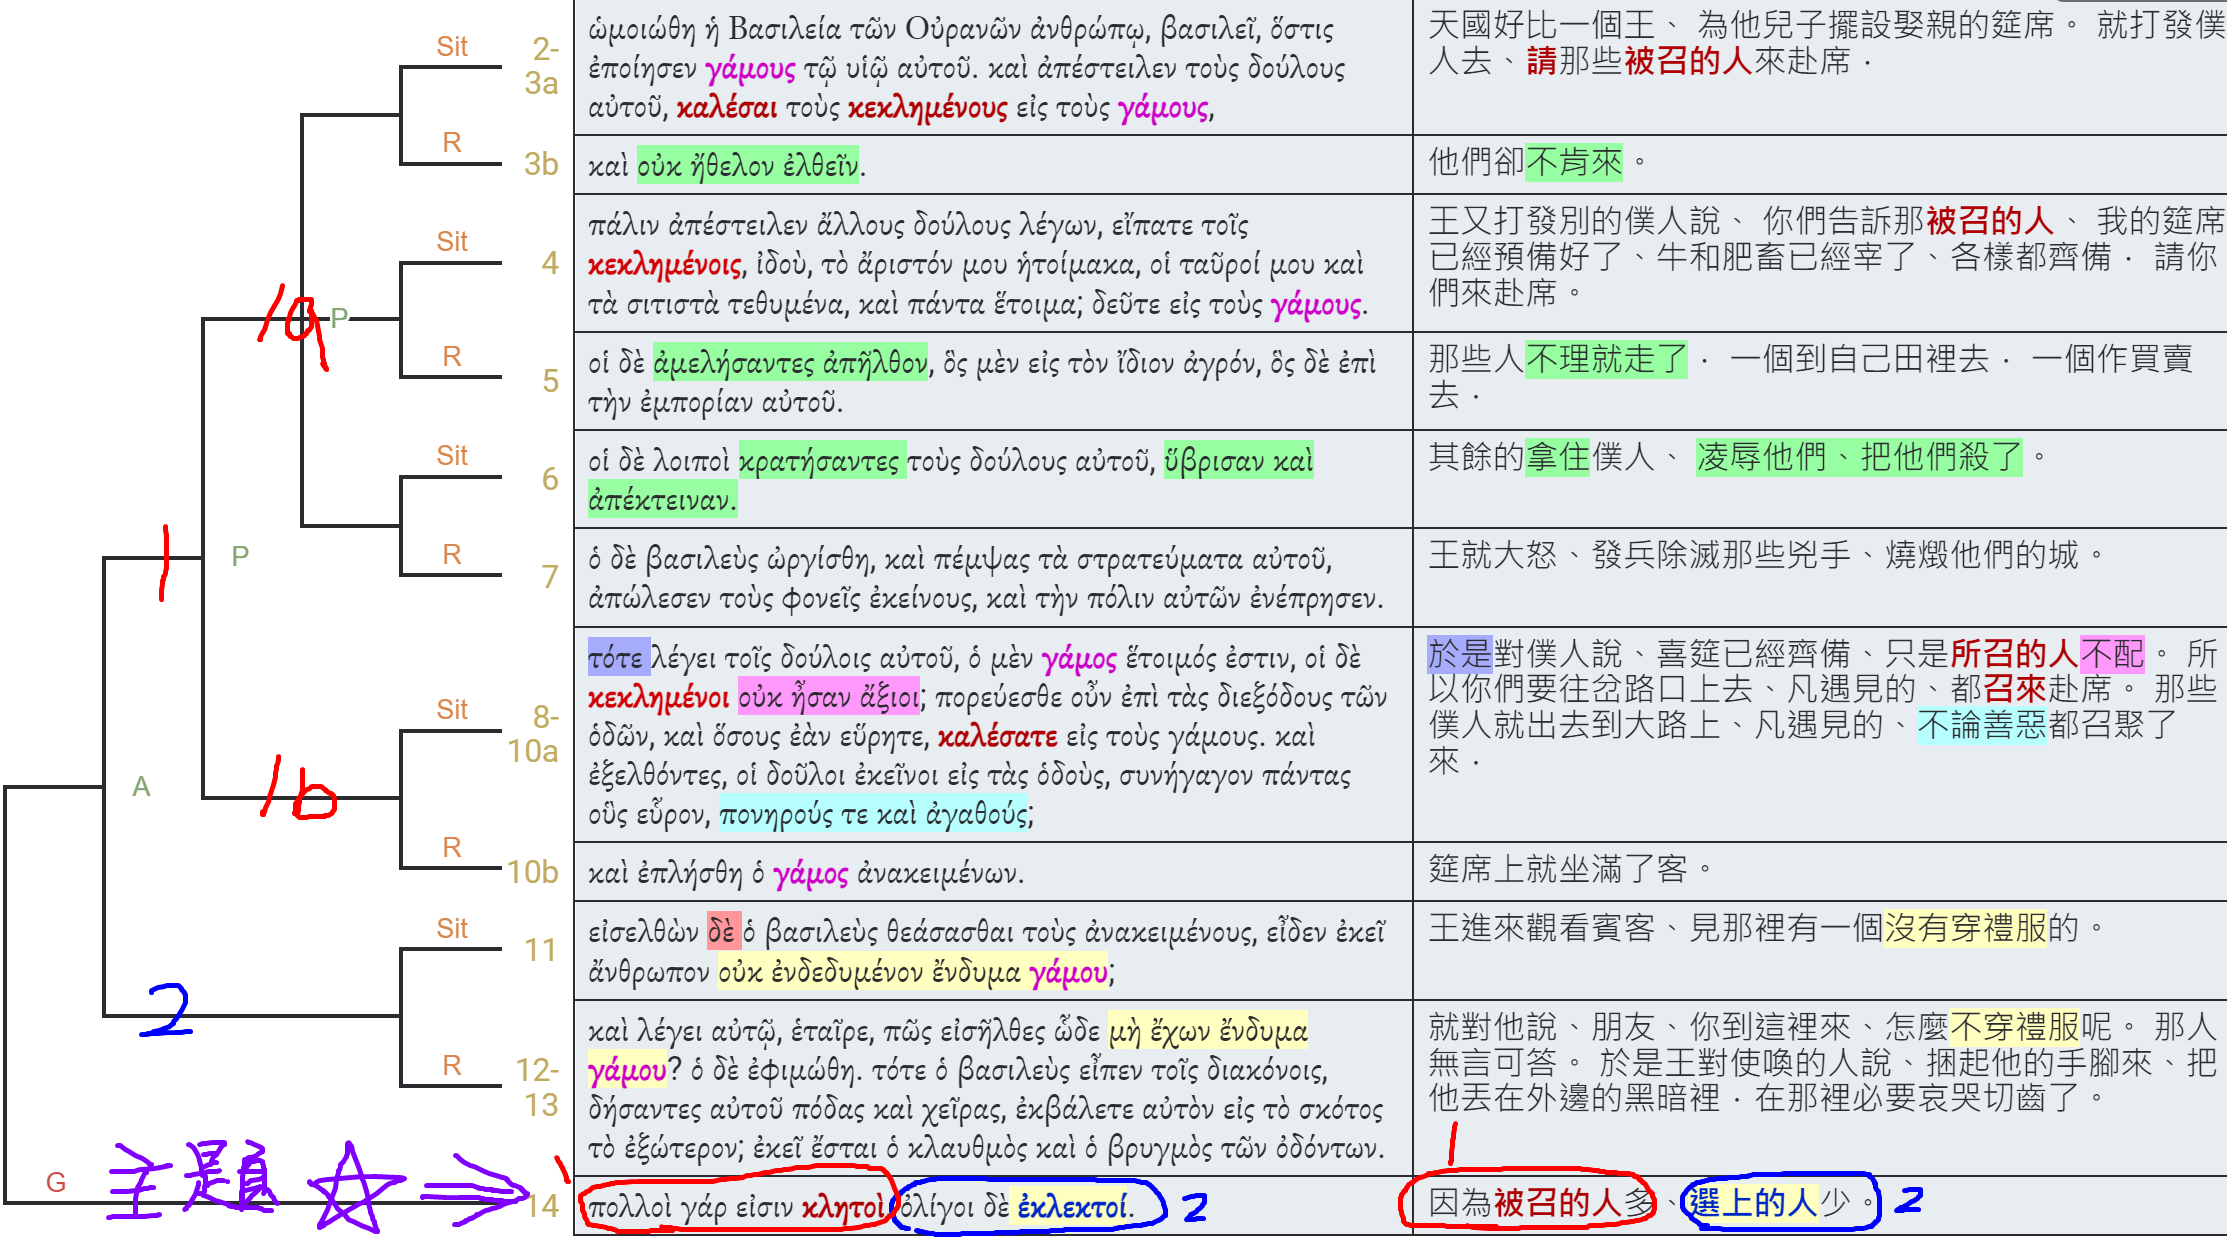
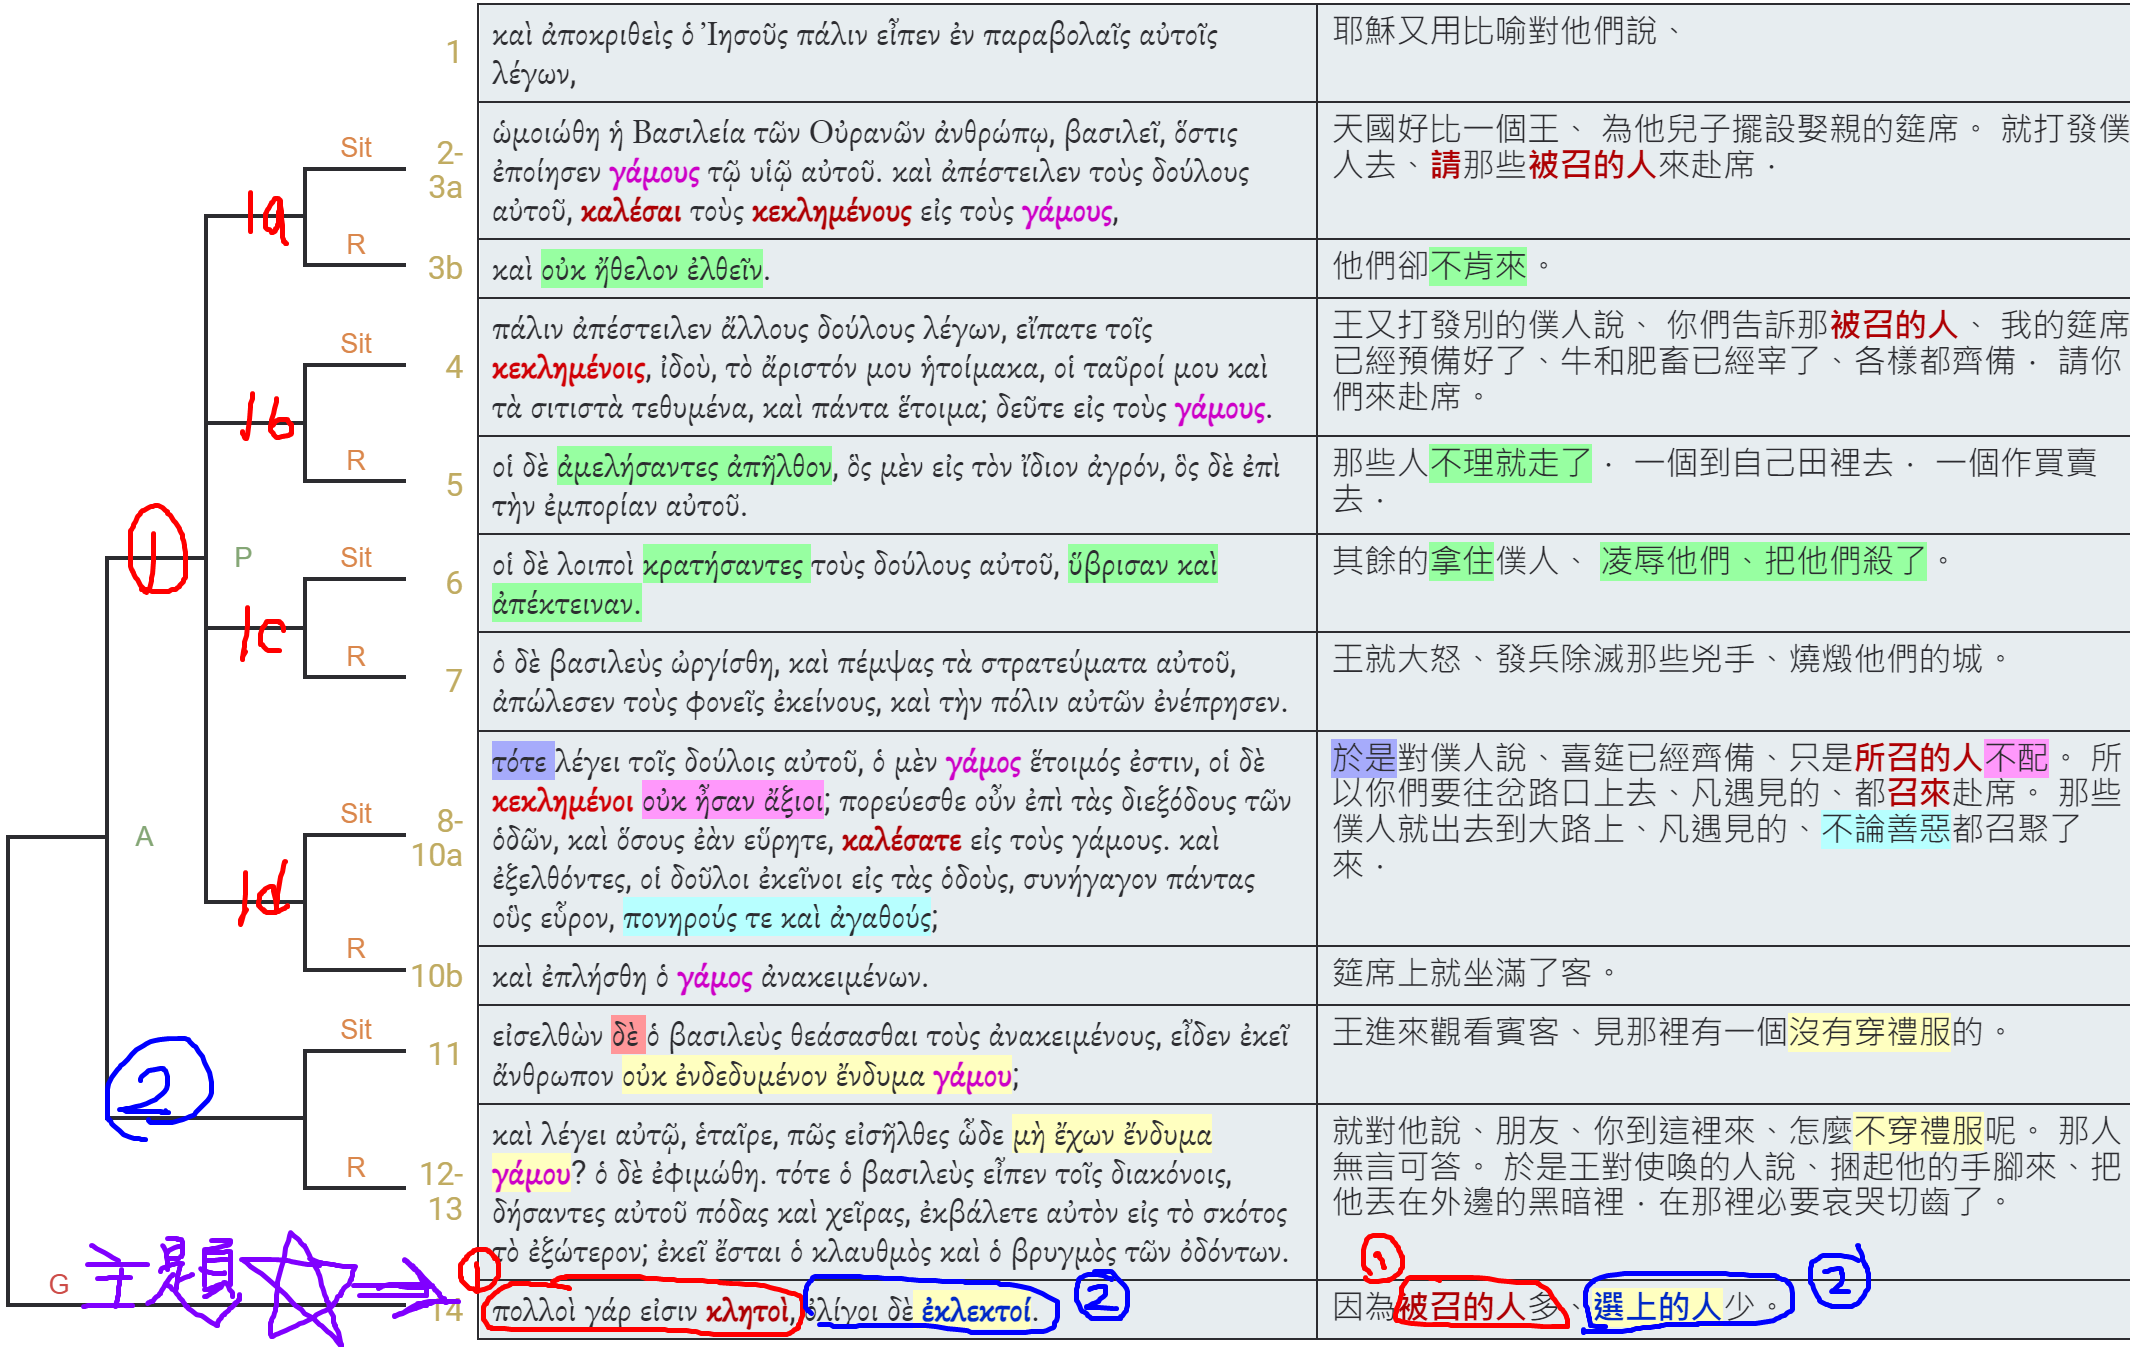
vault backup: 2023-10-27 11:49:33
Affected files:
.obsidian/workspace.json
BG4E-ExpPreaching/Sermon-3b-Key.md
images/Pasted image 20231027085033.png

Changed region(s): [[0.0, 0.0, 1.0, 1.0], [0.1549, 0.4876, 0.1859, 0.518]]

diff --git a/BG4E-ExpPreaching/Sermon-3b-Key.md b/BG4E-ExpPreaching/Sermon-3b-Key.md
@@ -57,10 +57,19 @@ https://app.biblearc.com/shared/4dbfac71-fd7f-4eb6-bfa7-7cbee01305b4
 
 ### 大綱 (Outline)
 
-- (1) 被召的人多——神樂意萬人悔改
-	- (1a) 
-- (2) 選上的人少
-- 
+- (0) 開場：神永恆的心意是 ...
+	- 太9:13 我來本不是召義人，乃是召罪人。
+	- 彼後3:9 不願有一人沉淪，乃願人人都悔改。
+- (1) 被召的人多——誰能配得上神的呼召？
+	- (1a) 不回應呼召的人，不配😢
+	- (1b) 不理會呼召的人，不配😢
+	- (1c) 逼迫神僕人的人，不配😢
+	- (1d) 不論善惡，肯回應的人就配😀
+		- 回應神的呼召 = 悔改
+		- 太21:28-32 (兩個兒子的比喻)：懊悔x2 (21:29, 32)
+- (2) 選上的人少——誰能？
+	- 
+		- 太21:33-44 (園戶的比喻)：果子x4 (21:34, 41, 43)
 
 [^1]: **Ὡμοιώθη**：意思是「使 A ... 像 B ...」，後面可以接兩個補語 (BAGD)，直接受格表示 A，間接受格表示 B。
 [^2]: ὅστις：這裡並沒有「無論誰，每一位…的」的意思，應該只是取代簡單的關係代名詞而已 (BAGD)。
